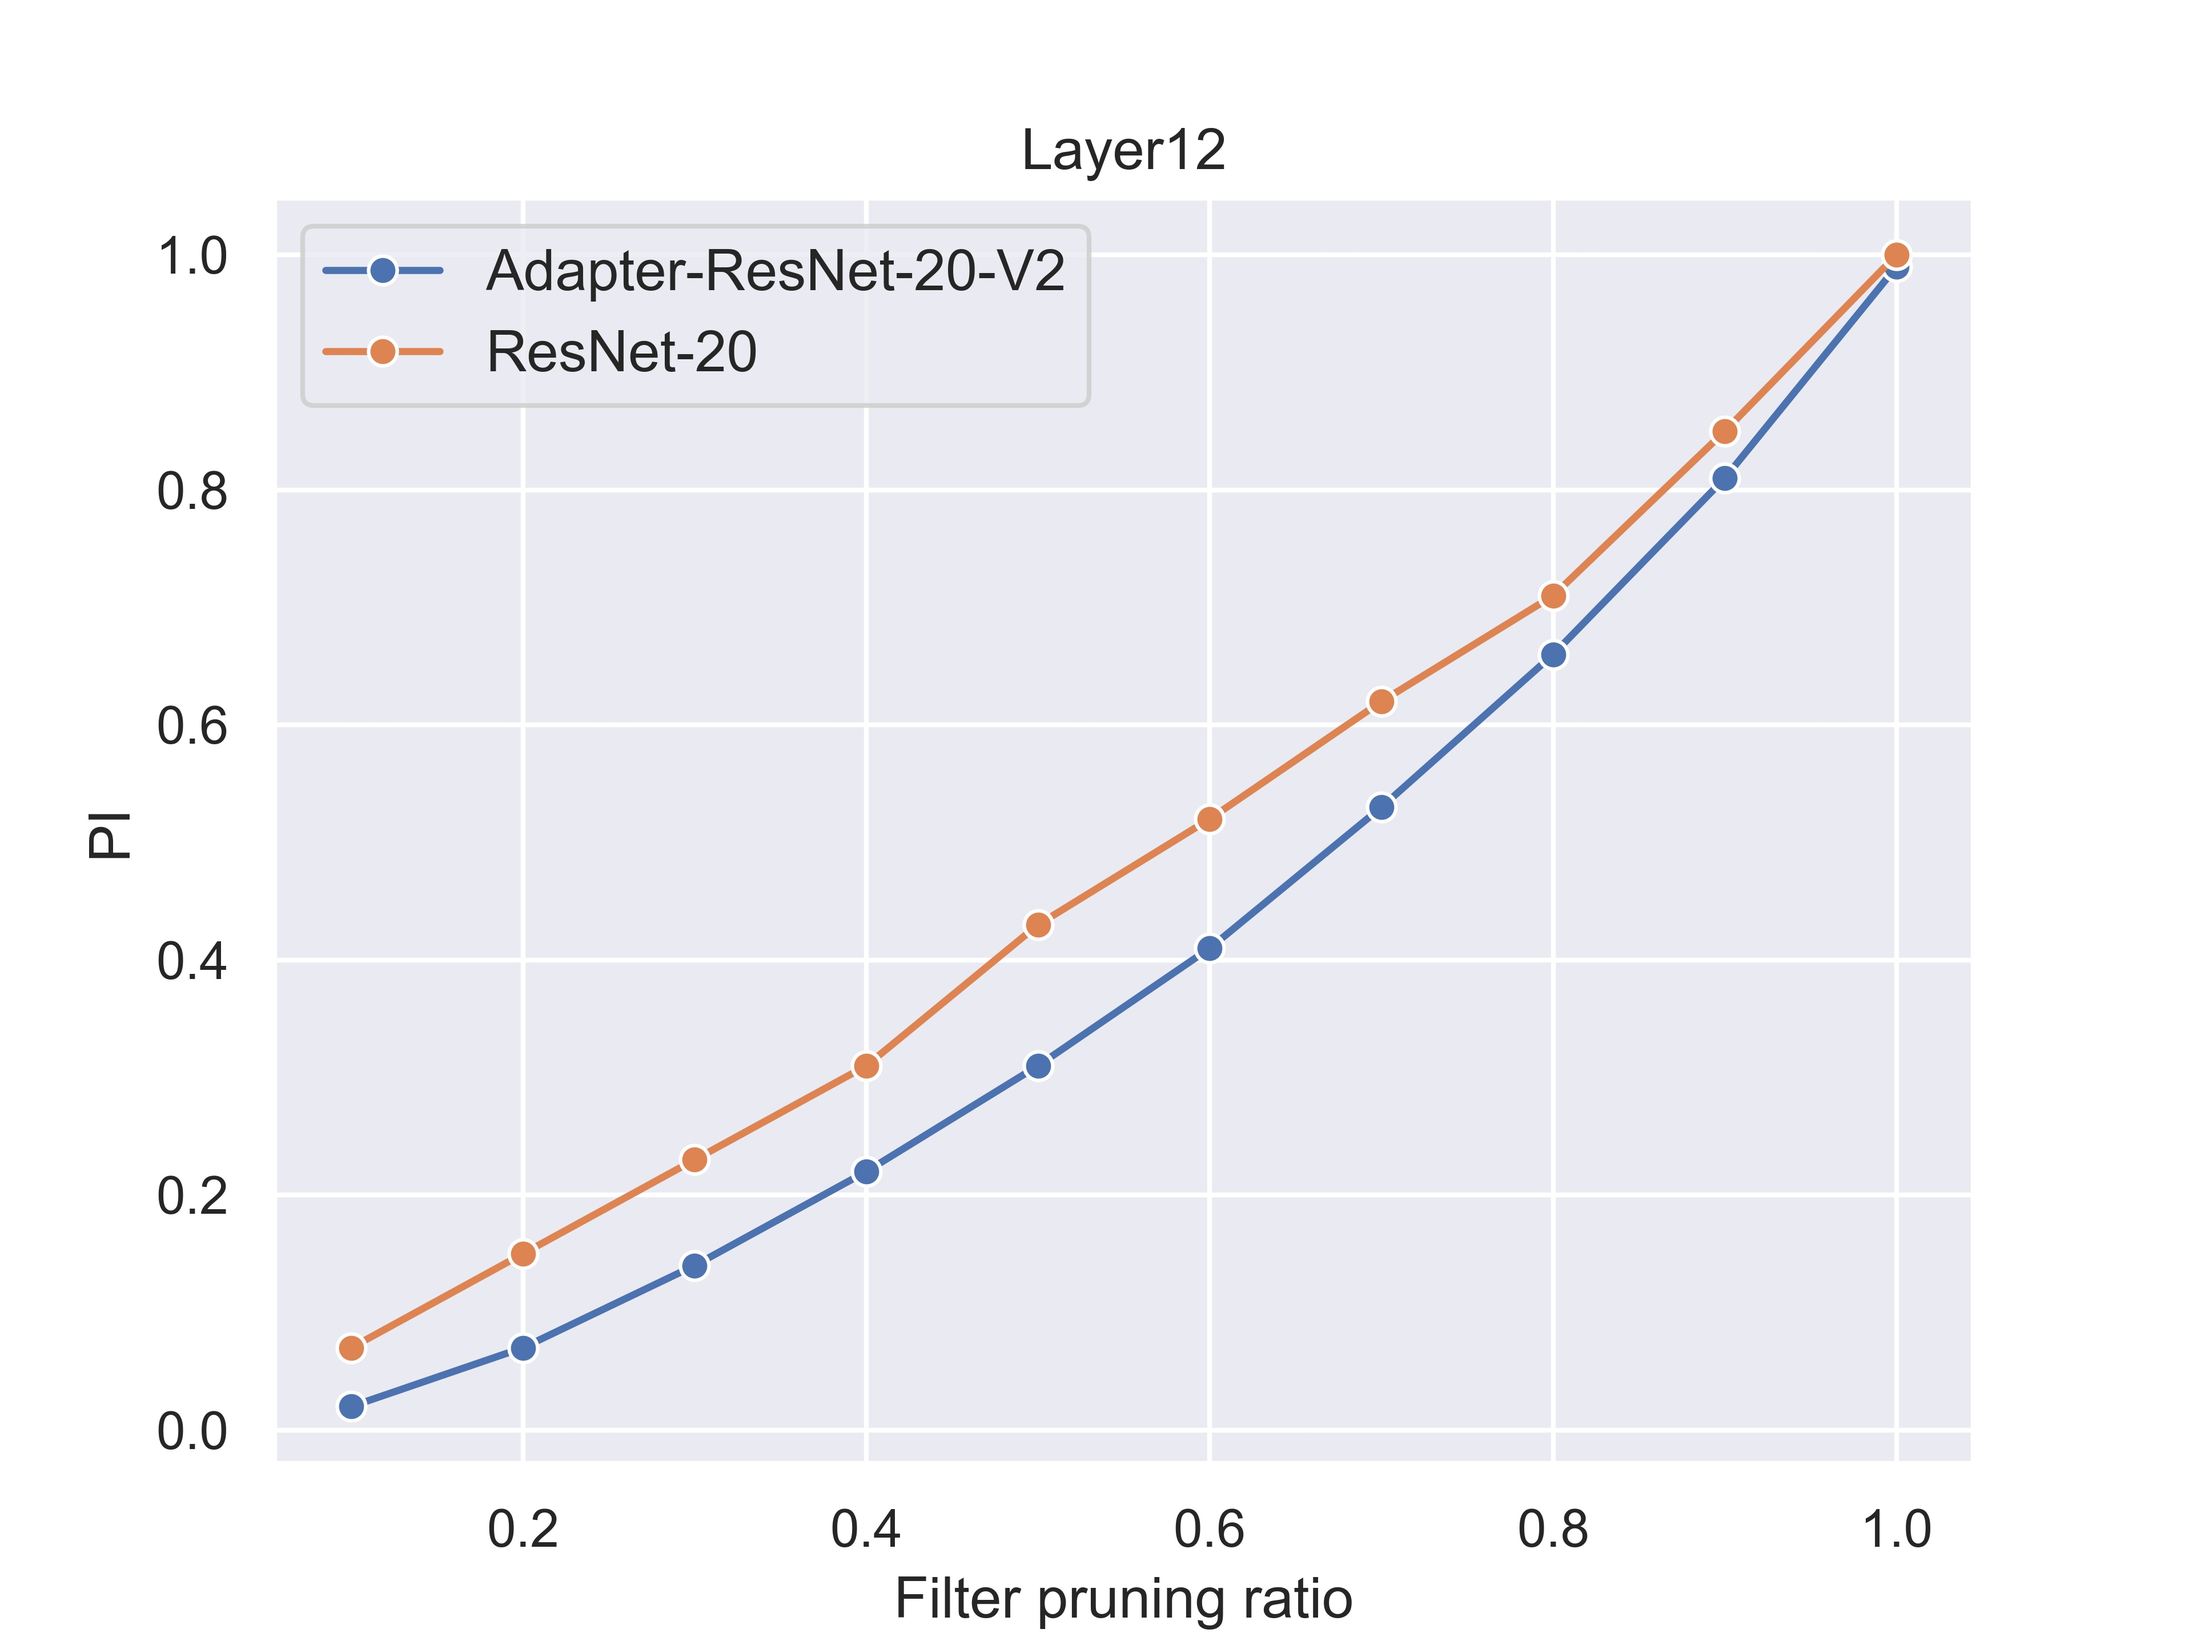
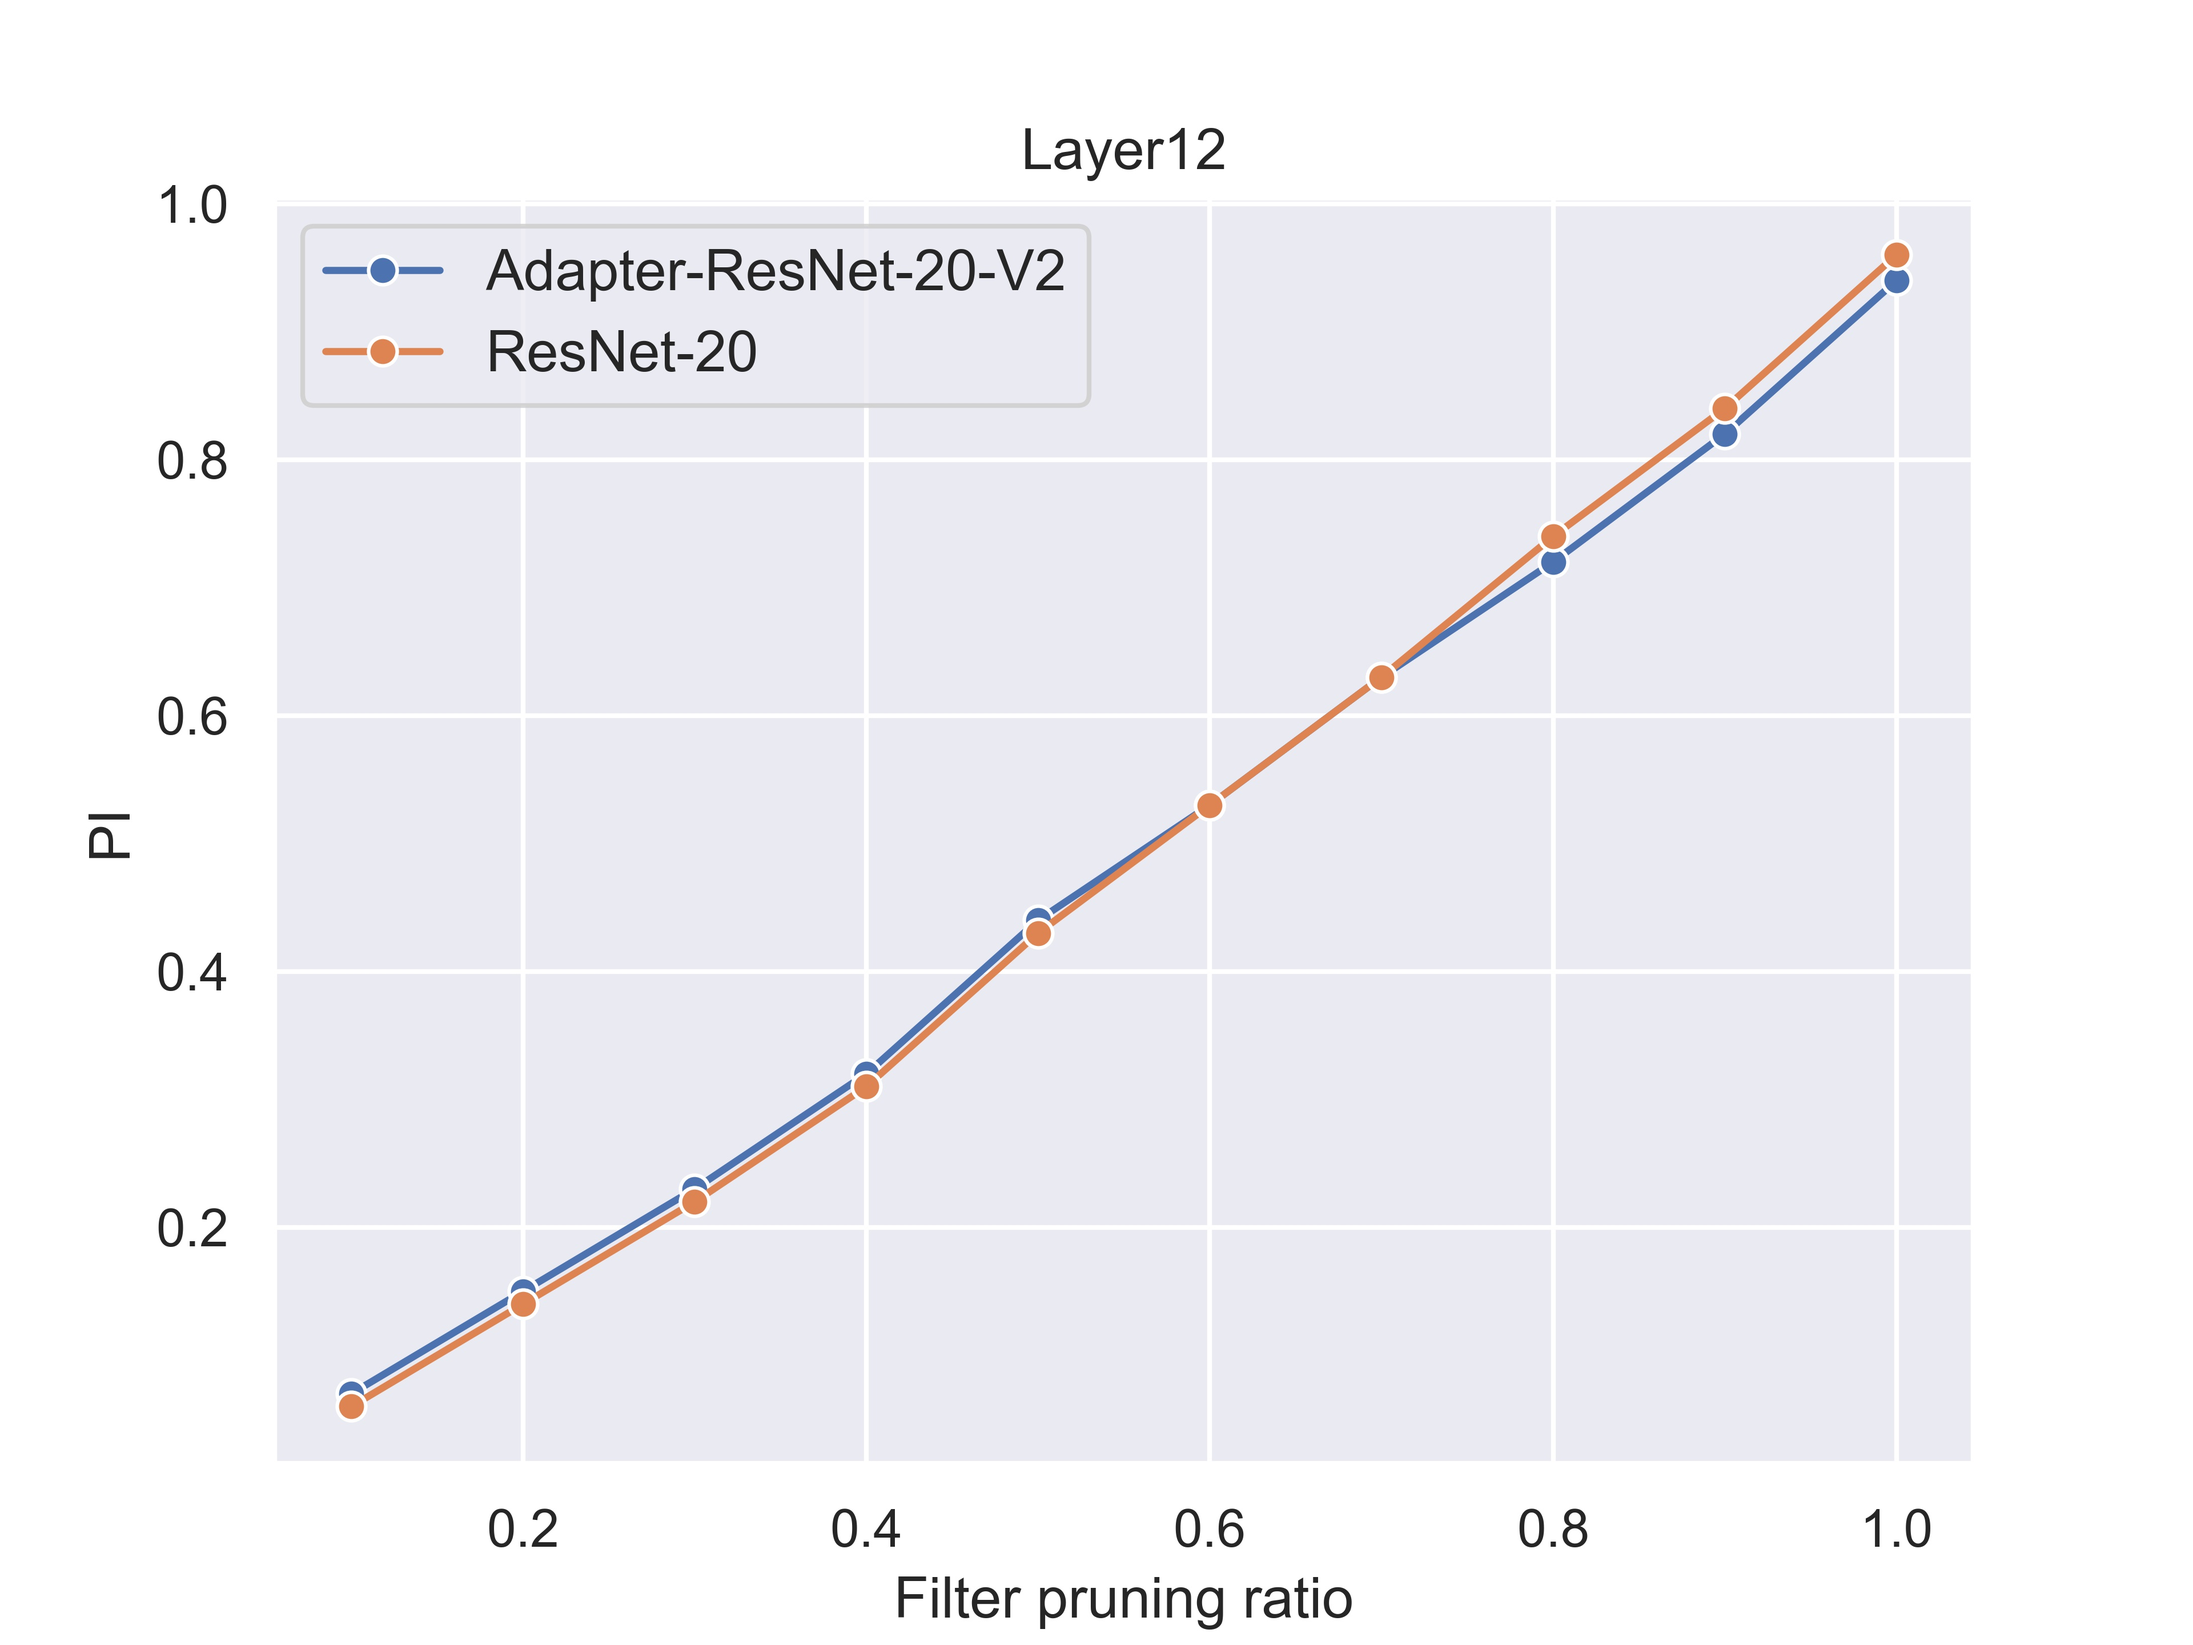
xiugai

diff --git a/influence.py b/influence.py
@@ -2,7 +2,7 @@ import utils
 
 if __name__ == '__main__':
     # xlist = [0.6, 0.7, 0.8, 0.9, 0.5, 0.4, 0.3, 0.2, 0.1]
-    xlist = [0.9, 0.1, 0.8, 0.2, 0.7, 0.3, 0.6, 0.4, 0.1]
+    xlist = [0.9, 0.1, 0.8, 0.2, 0.7, 0.3, 0.6, 0.4, 0.5]
 
     for item in xlist:
 
@@ -31,11 +31,18 @@ if __name__ == '__main__':
         #        '--graf --pretrain_dir ./pretrained_models/93.59_resnet_56_cifar10.pth.tar --sparsity [0.]*28+[{}]*1+[0.]*1'.format(
         #     str(item), str(item))
 
+        # rcmd = 'python graf_prune_finetune_cifar_n.py --pretrained_dataset cifar100 --finetune_dataset cifar100 ' \
+        #        '--finetune_data_dir ./data --pretrained_arch resnet_20 --finetune_arch resnet_20 --result_dir ' \
+        #        './result/normal_pruned/68.70cifar100tocifar100_resnet_20_pruned_{}_2 --ci_dir ./calculated_ci/68.70_resnet_20_cifar100 ' \
+        #        '--batch_size 128 --epochs 50 --lr_type cos --learning_rate 0.01 --momentum 0.9 --weight_decay 0.0005 ' \
+        #        '--graf --pretrain_dir ./pretrained_models/68.70_resnet_20_cifar100.pth.tar --sparsity [0.]*8+[{}]+[0.]*3'.format(
+        #     str(item), str(item))
+
         rcmd = 'python graf_prune_finetune_cifar_n.py --pretrained_dataset cifar100 --finetune_dataset cifar100 ' \
                '--finetune_data_dir ./data --pretrained_arch resnet_20 --finetune_arch resnet_20 --result_dir ' \
-               './result/normal_pruned/68.70cifar100tocifar100_resnet_20_pruned_{}_2 --ci_dir ./calculated_ci/68.70_resnet_20_cifar100 ' \
+               './result/normal_pruned/68.70cifar100tocifar100_resnet_20_pruned_{}_3 --ci_dir ./calculated_ci/68.70_resnet_20_cifar100 ' \
                '--batch_size 128 --epochs 50 --lr_type cos --learning_rate 0.01 --momentum 0.9 --weight_decay 0.0005 ' \
-               '--graf --pretrain_dir ./pretrained_models/68.70_resnet_20_cifar100.pth.tar --sparsity [0.]*8+[{}]+[0.]*3'.format(
+               '--graf --pretrain_dir ./pretrained_models/68.70_resnet_20_cifar100.pth.tar --sparsity [0.]*7+[{}]+[0.]*4'.format(
             str(item), str(item))
 
         # rcmd = 'python graf_prune_finetune_cifar_n.py --pretrained_dataset cifar10 --finetune_dataset cifar10 ' \
@@ -94,12 +101,19 @@ if __name__ == '__main__':
         #          '--graf --pretrain_dir ./pretrained_models/92.22_adapter15resnet_20_cifar10.pth.tar --sparsity [0.]*10+[{}]*1+[0.]*1 ' \
         #          '--adapter_sparsity [0.]*1'.format(str(item), str(item))
 
+        # adrcmd = 'python graf_prune_finetune_cifar_n.py --pretrained_dataset cifar100 --finetune_dataset cifar100 ' \
+        #        '--finetune_data_dir ./data --pretrained_arch adapter19resnet_20 --finetune_arch adapter19resnet_20 --result_dir ' \
+        #        './result/normal_pruned/68.72cifar100tocifar100adapter19_resnet_20_pruned_{}_2 --ci_dir ./calculated_ci/68.72_adapter19resnet_20_cifar100 ' \
+        #        '--batch_size 128 --epochs 50 --lr_type cos --learning_rate 0.01 --momentum 0.9 --weight_decay 0.0005 ' \
+        #        '--graf --pretrain_dir ./pretrained_models/68.72_adapter19resnet_20_cifar100.pth.tar --sparsity [0.]*12 ' \
+        #        '--adapter_sparsity [{}]*1'.format(str(item), str(item))
+
         adrcmd = 'python graf_prune_finetune_cifar_n.py --pretrained_dataset cifar100 --finetune_dataset cifar100 ' \
-               '--finetune_data_dir ./data --pretrained_arch adapter19resnet_20 --finetune_arch adapter19resnet_20 --result_dir ' \
-               './result/normal_pruned/68.72cifar100tocifar100adapter19_resnet_20_pruned_{}_2 --ci_dir ./calculated_ci/68.72_adapter19resnet_20_cifar100 ' \
-               '--batch_size 128 --epochs 50 --lr_type cos --learning_rate 0.01 --momentum 0.9 --weight_decay 0.0005 ' \
-               '--graf --pretrain_dir ./pretrained_models/68.72_adapter19resnet_20_cifar100.pth.tar --sparsity [0.]*12 ' \
-               '--adapter_sparsity [{}]*1'.format(str(item), str(item))
+                 '--finetune_data_dir ./data --pretrained_arch adapter19resnet_20 --finetune_arch adapter19resnet_20 --result_dir ' \
+                 './result/normal_pruned/68.72cifar100tocifar100adapter19_resnet_20_pruned_{}_3 --ci_dir ./calculated_ci/68.72_adapter19resnet_20_cifar100 ' \
+                 '--batch_size 128 --epochs 50 --lr_type cos --learning_rate 0.01 --momentum 0.9 --weight_decay 0.0005 ' \
+                 '--graf --pretrain_dir ./pretrained_models/68.72_adapter19resnet_20_cifar100.pth.tar --sparsity [0.]*7+[{}]+[0.]*4 ' \
+                 '--adapter_sparsity [0.]*1'.format(str(item), str(item))
 
         utils.execute_command([rcmd, adrcmd, adrcmd])
         # utils.execute_command([rcmd, rcmd, adrcmd])

diff --git a/calci_plot.py b/calci_plot.py
@@ -15,7 +15,7 @@ if __name__ == '__main__':
     # dirpath2 = './calculated_ci/93.96_vgg_16_bn_cifar10'
     dirpath2 = 'calculated_ci/68.70_resnet_20_cifar100'
 
-    file = 'ci_conv12.npy'
+    file = 'ci_conv10.npy'
     # file = 'ci_conv52.npy'
     filepath1 = os.path.join(dirpath1, file)
     filepath2 = os.path.join(dirpath2, file)
@@ -36,7 +36,7 @@ if __name__ == '__main__':
         y1.append(data1_ratio); y2.append(data2_ratio)
         start += delta
 
-    y2[9] = 1.0; y2[8] = 0.85
+    # y2[9] = 1.0; y2[8] = 0.85
     print(y1)
     print(y2)
     plt.rcParams['savefig.dpi'] = 600; plt.rcParams['figure.dpi'] = 600
